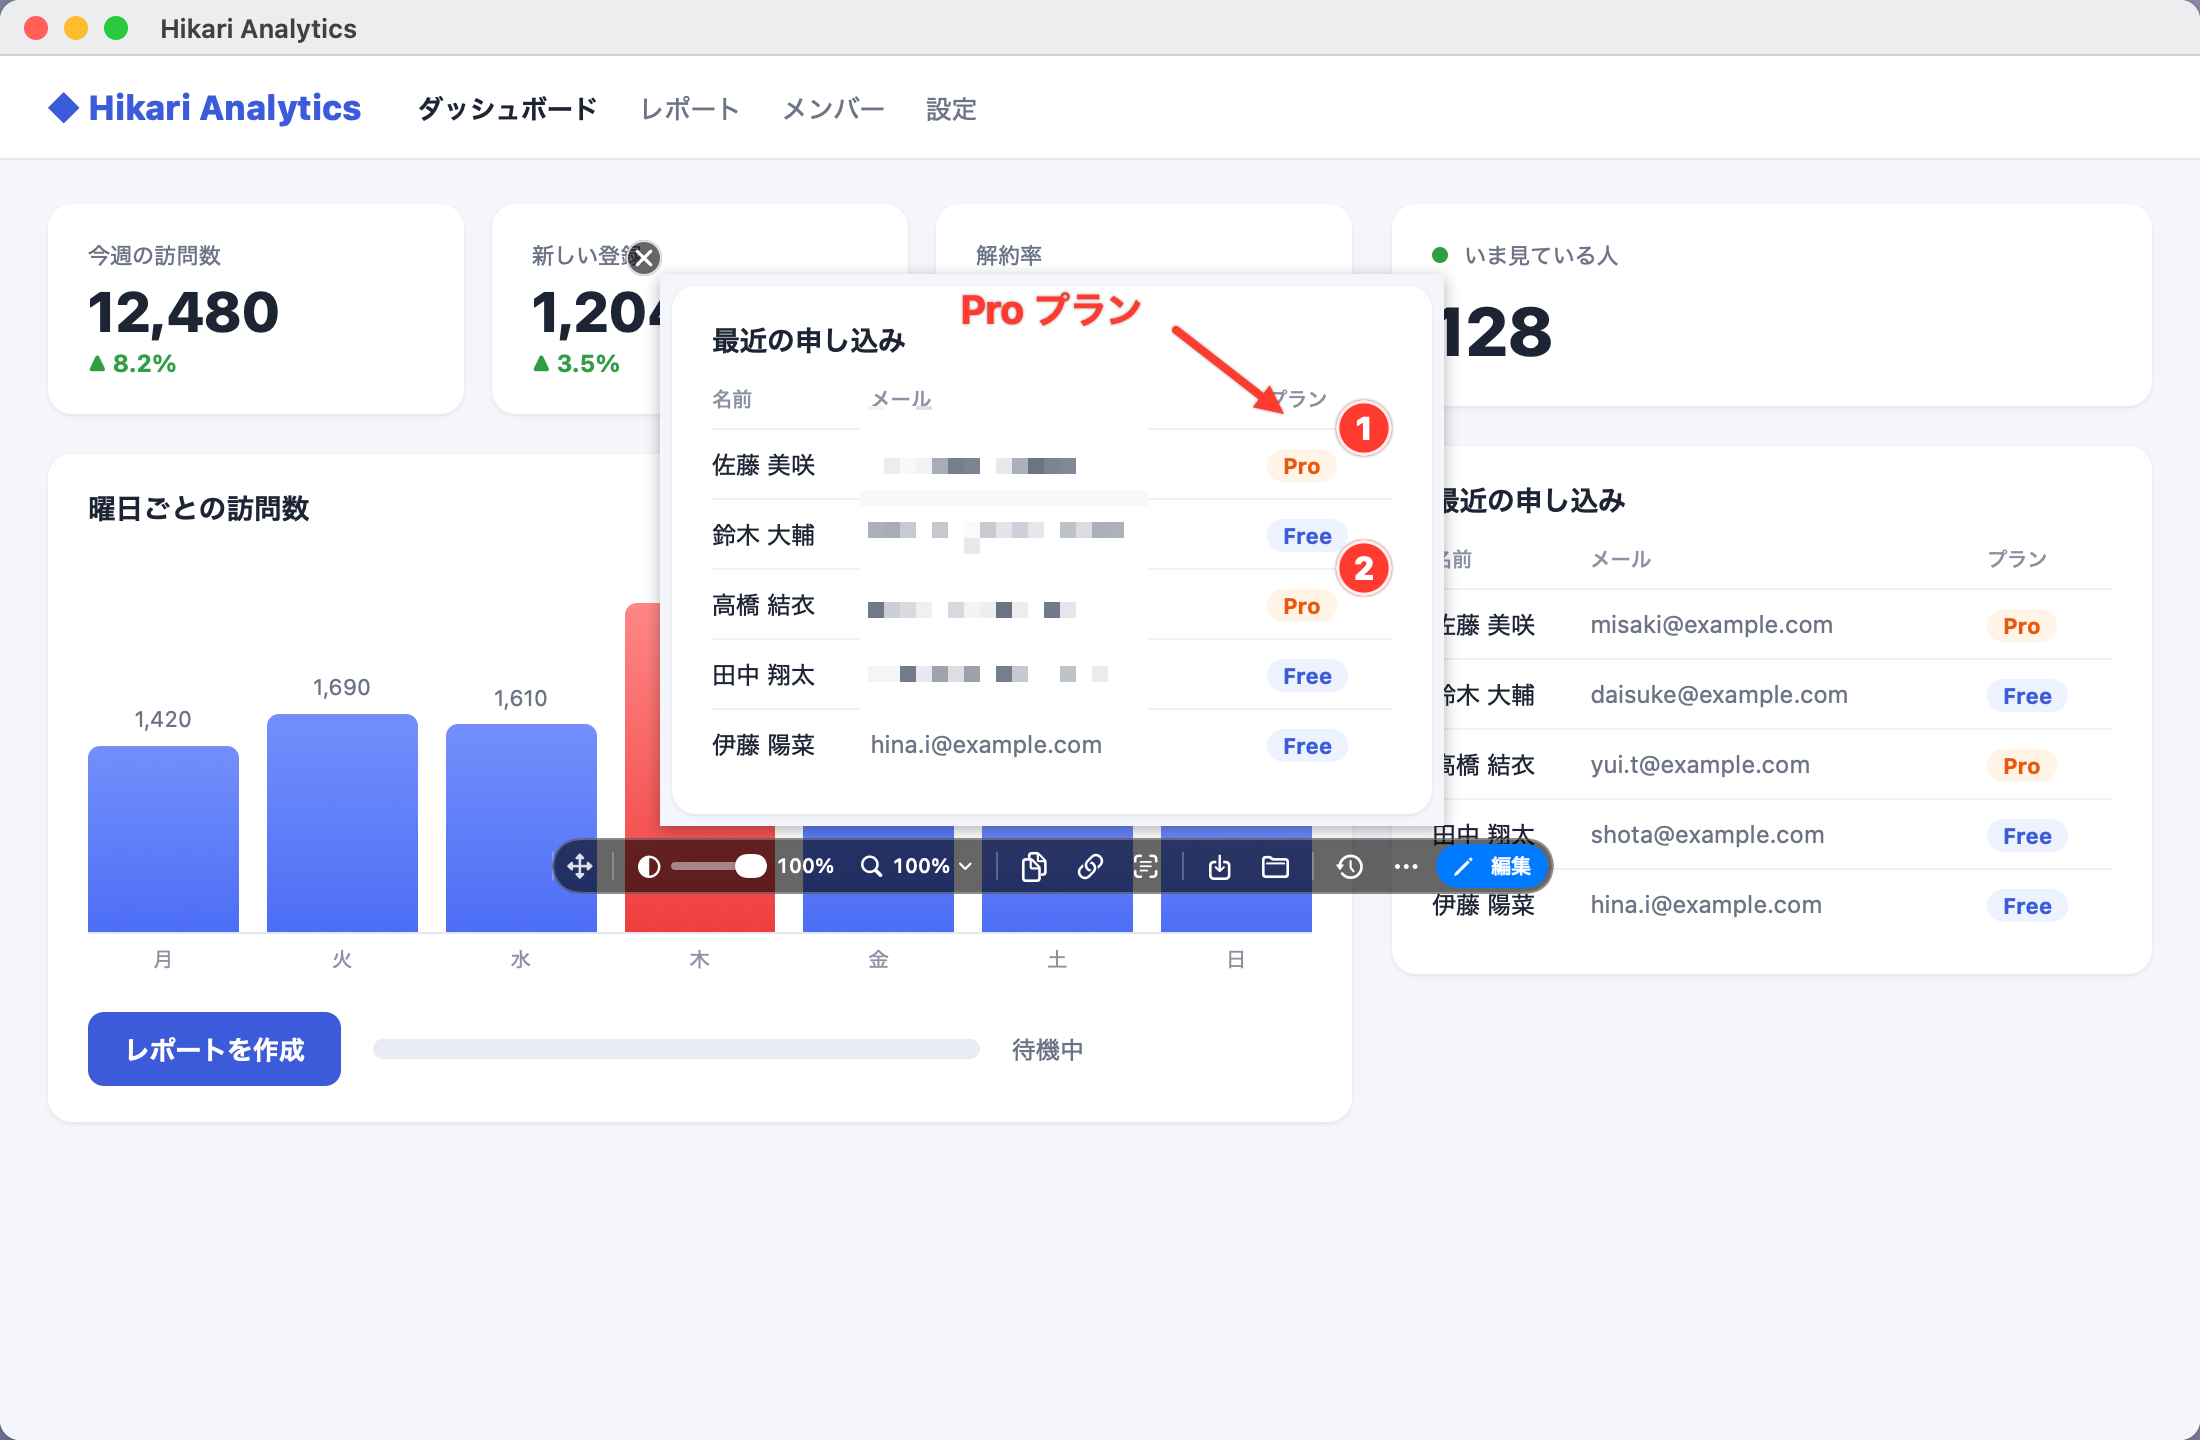
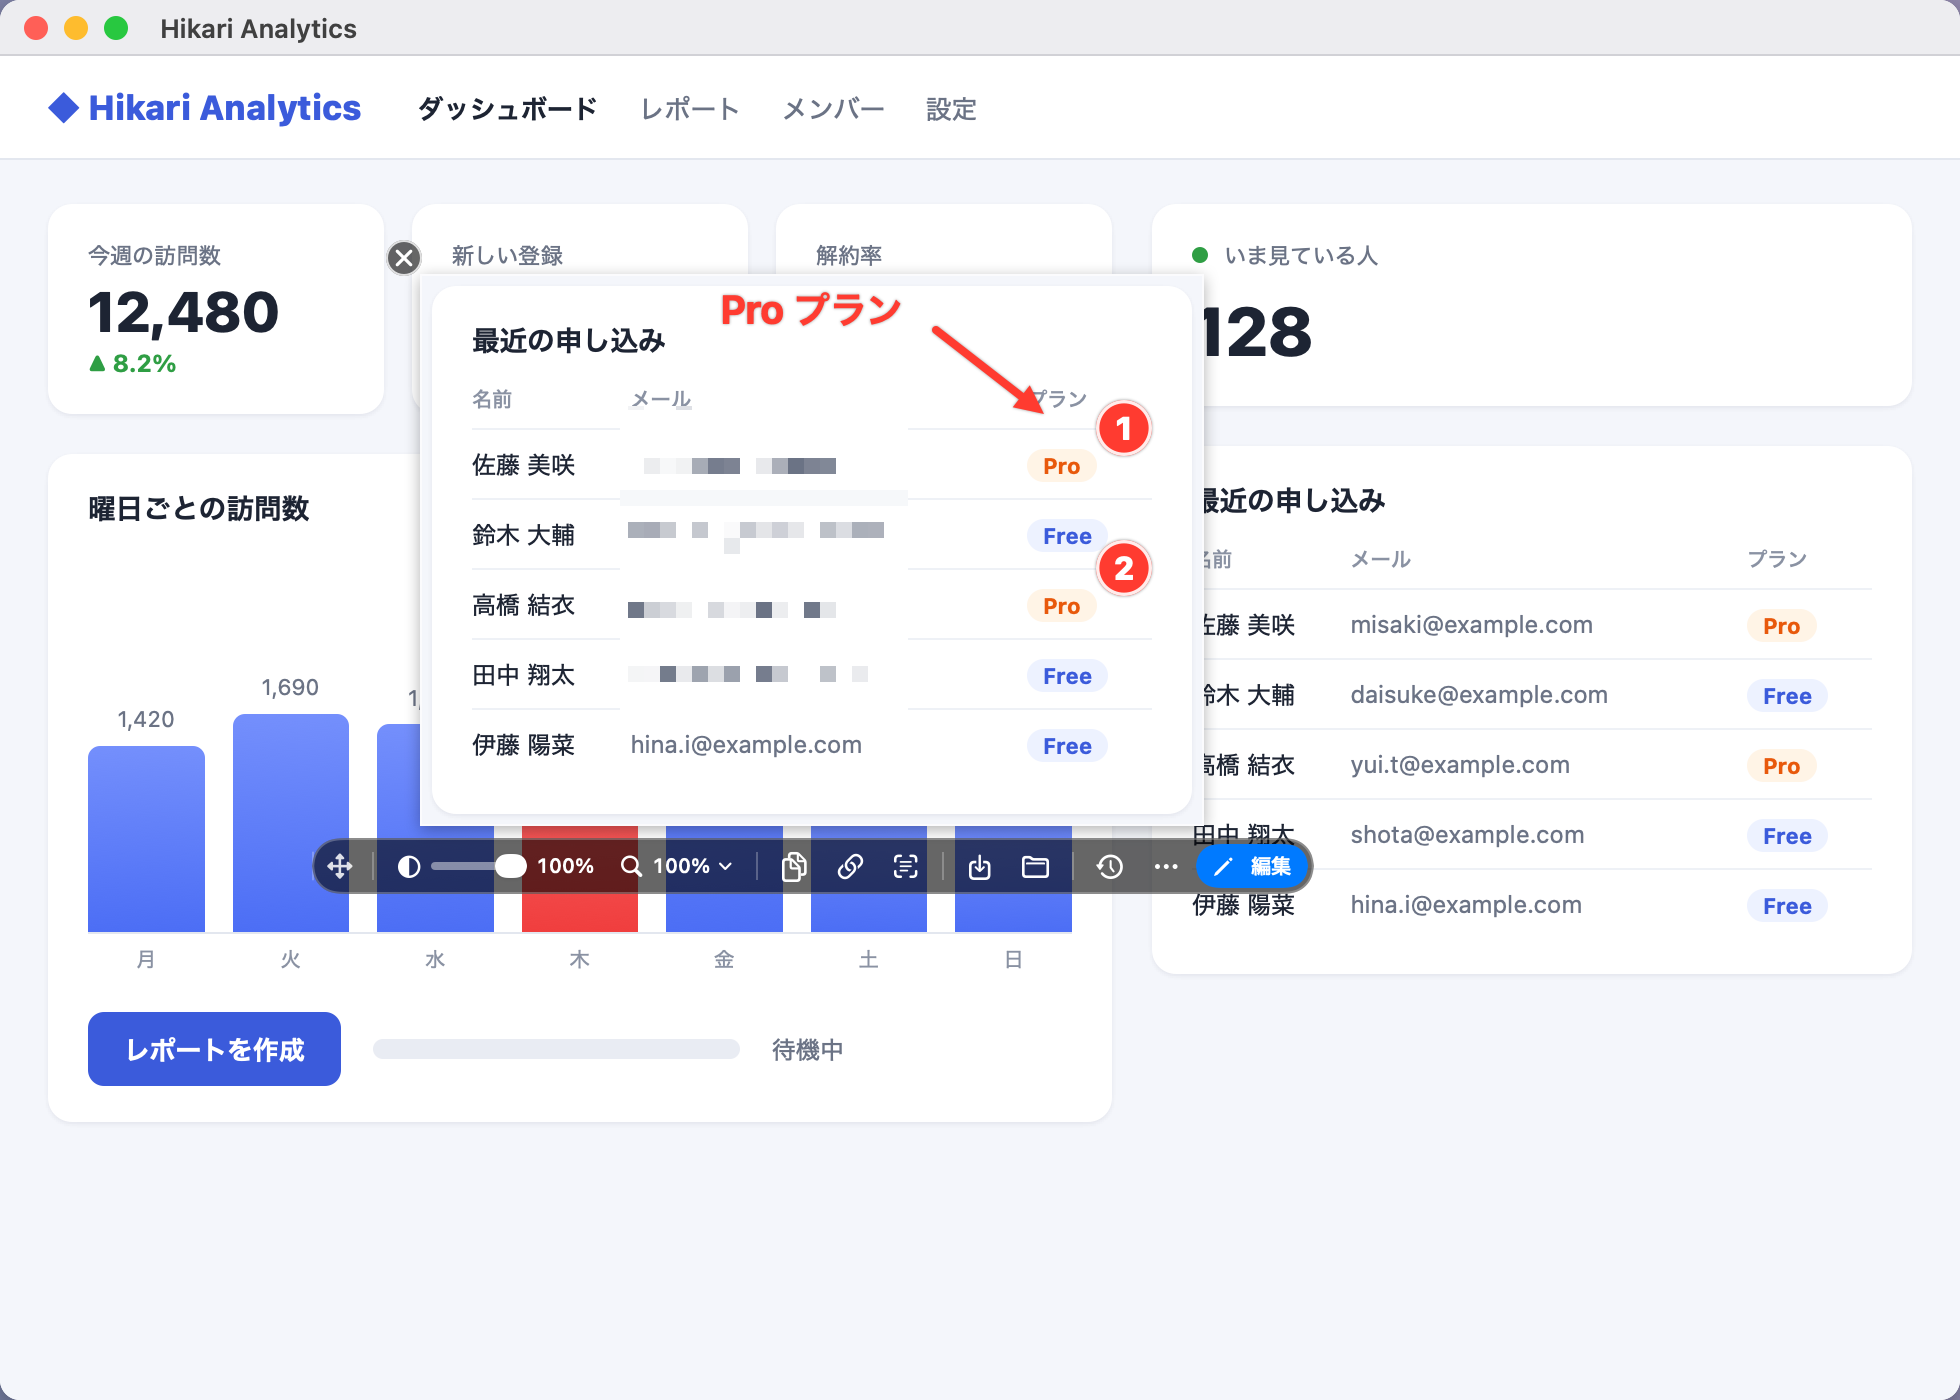
docs: README の絵の大きさを Pinstage にそろえる
- 見本の画面を 1100 × 720 から 980 × 700 にする（GIF は 980 × 700、hero.png は 2 倍の 1960 × 1400。Pinstage と同じ）
- README では同じ幅 800 で見せるので、部品が 1 割ほど大きく写り、読みやすくなる
- docs/images の絵を作り直す

diff --git a/scripts/readme-images/main.swift b/scripts/readme-images/main.swift
@@ -47,7 +47,8 @@ enum ReadmeImagesError: Error, CustomStringConvertible {
 /// 見本の窓（ブラウザの窓に見立てる）を置く、画面の範囲。GIF はこの範囲を切り出す
 @MainActor
 enum Stage {
-    static let size = CGSize(width: 1100, height: 720)
+    /// Pinstage の README の絵と同じ大きさ（GIF は 980 × 700、hero.png は 2 倍の 1960 × 1400）。README では幅 800 で見せる
+    static let size = CGSize(width: 980, height: 700)
     /// 窓の上の帯（タイトルバー）の高さ
     static let titleBarHeight: CGFloat = 28
 
